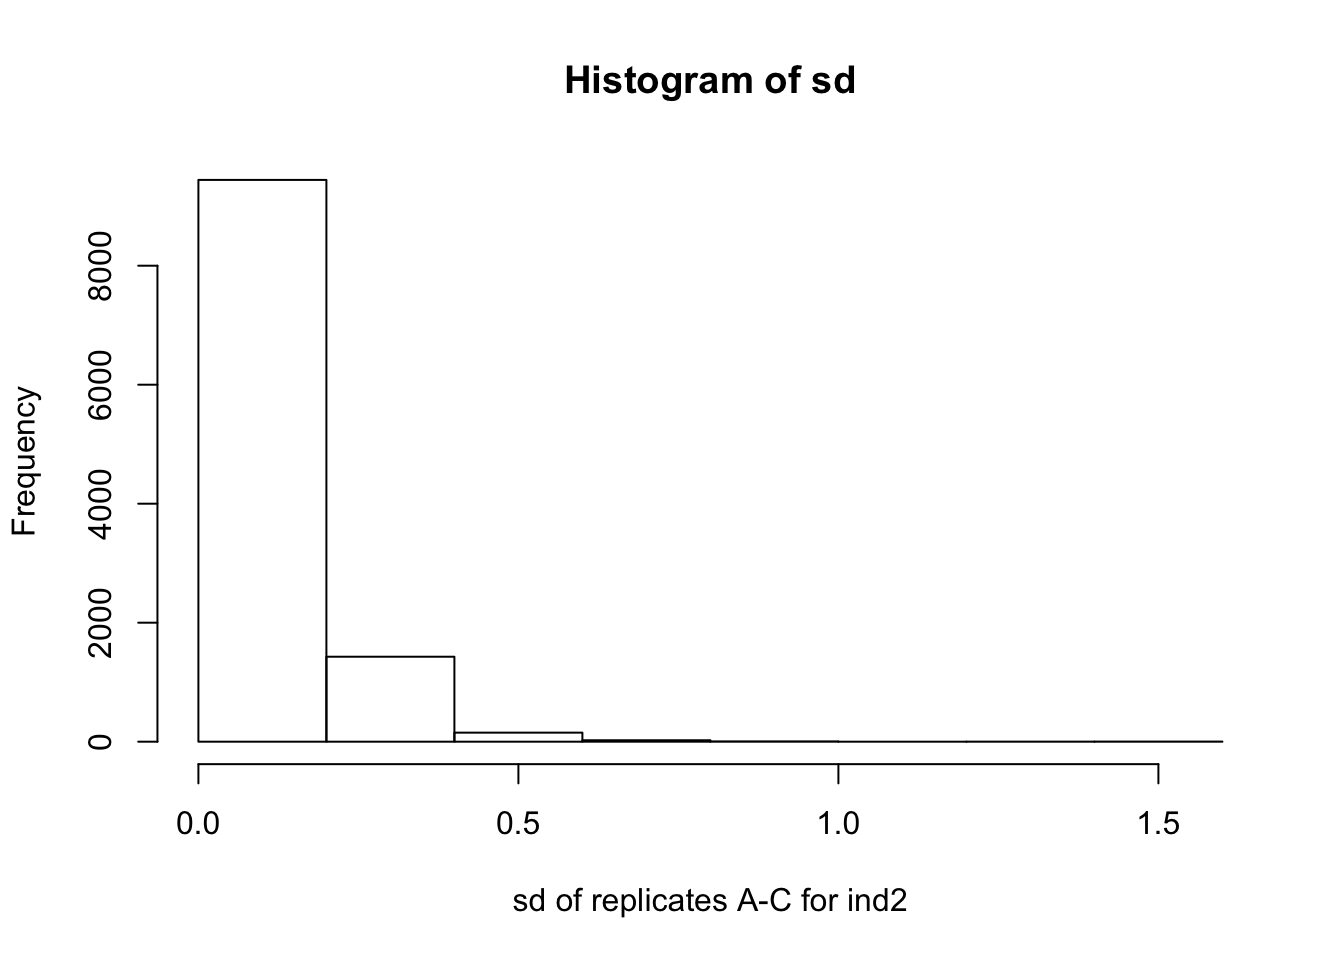
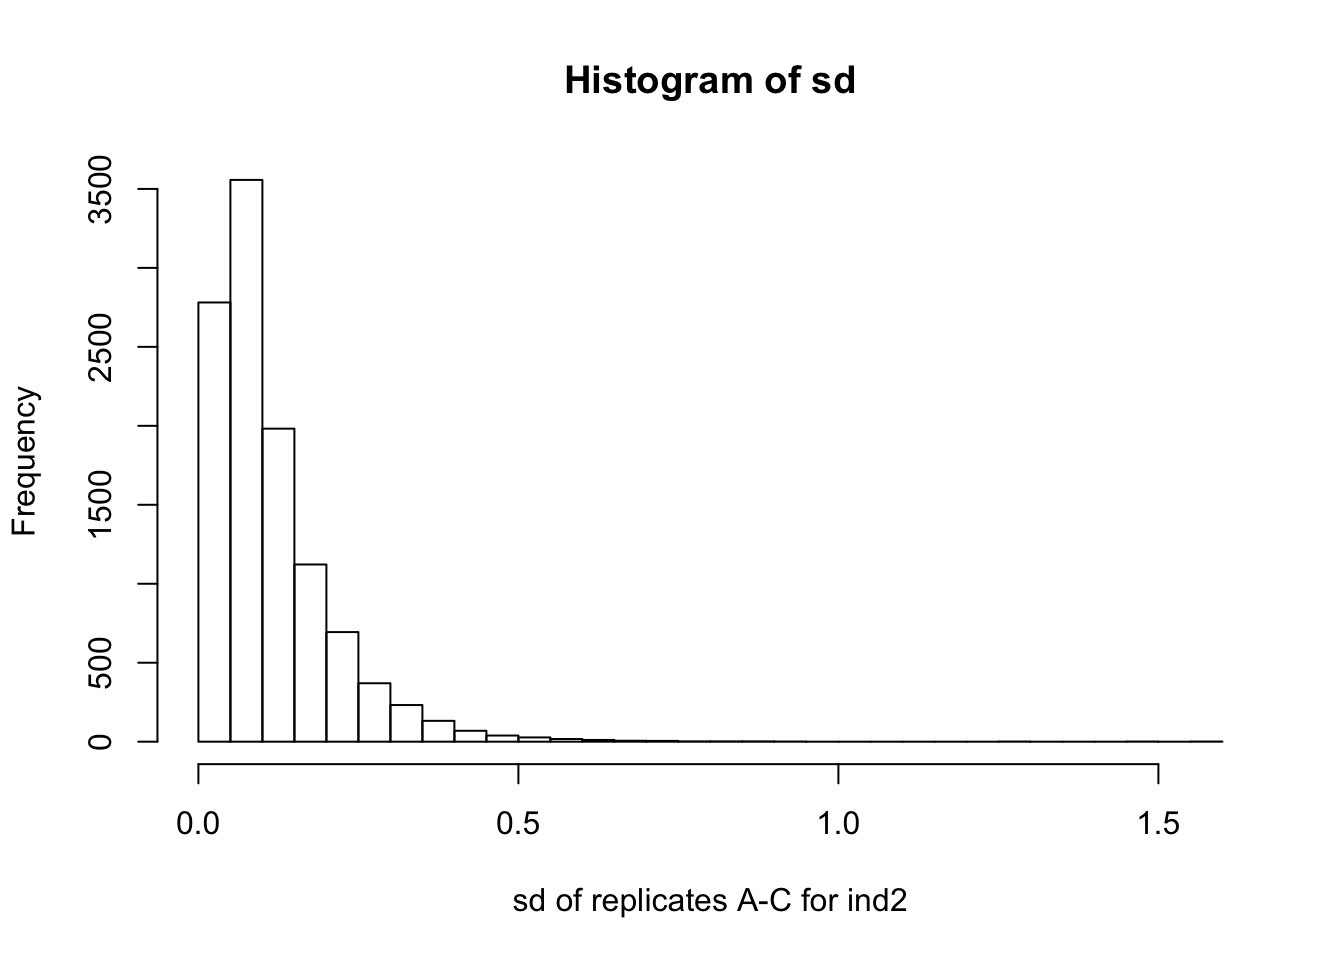
fix stem.html

diff --git a/docs/stem.html b/docs/stem.html
@@ -327,8 +327,7 @@ div.section {
 <strong>workflowr checks:</strong> <small>(Click a bullet for more information)</small>
 <ul>
 <li>
-<p><details> <summary> <strong style="color:blue;">✔</strong> <strong>R Markdown file:</strong> up-to-date </summary></p>
-<p>Great! Since the R Markdown file has been committed to the Git repository, you know the exact version of the code that produced these results.</p>
+<p><details> <summary> <strong style="color:red;">✖</strong> <strong>R Markdown file:</strong> uncommitted changes </summary> The R Markdown file has unstaged changes. To know which version of the R Markdown file created these results, you’ll want to first commit it to the Git repo. If you’re still working on the analysis, you can ignore this warning. When you’re finished, you can run <code>wflow_publish</code> to commit the R Markdown file and build the HTML.</p>
 </details>
 </li>
 <li>
@@ -347,12 +346,15 @@ div.section {
 </details>
 </li>
 <li>
-<p><details> <summary> <strong style="color:blue;">✔</strong> <strong>Repository version:</strong> <a href="https://github.com/mengyin/general_ash/tree/92644611d4a57984a9dd47c97ce9d1ae75d04440" target="_blank">9264461</a> </summary></p>
+<p><details> <summary> <strong style="color:blue;">✔</strong> <strong>Repository version:</strong> <a href="https://github.com/mengyin/general_ash/tree/7836ca3351a4995f184bd7b25a0f64537658dc29" target="_blank">7836ca3</a> </summary></p>
 Great! You are using Git for version control. Tracking code development and connecting the code version to the results is critical for reproducibility. The version displayed above was the version of the Git repository at the time these results were generated. <br><br> Note that you need to be careful to ensure that all relevant files for the analysis have been committed to Git prior to generating the results (you can use <code>wflow_publish</code> or <code>wflow_git_commit</code>). workflowr only checks the R Markdown file, but you know if there are other scripts or data files that it depends on. Below is the status of the Git repository when the results were generated:
 <pre><code>
 Ignored files:
+    Ignored:    analysis/._index.Rmd
     Ignored:    analysis/stem_cache/
-    Ignored:    docs/figure/
+
+Unstaged changes:
+    Modified:   analysis/stem.Rmd
 
 </code></pre>
 Note that any generated files, e.g. HTML, png, CSS, etc., are not included in this status report because it is ok for generated content to have uncommitted changes. </details>
@@ -381,6 +383,23 @@ Message
 </tr>
 </thead>
 <tbody>
+<tr>
+<td style="text-align:left;">
+html
+</td>
+<td style="text-align:left;">
+<a href="https://cdn.rawgit.com/mengyin/general_ash/7836ca3351a4995f184bd7b25a0f64537658dc29/docs/stem.html" target="_blank">7836ca3</a>
+</td>
+<td style="text-align:left;">
+mengyin
+</td>
+<td style="text-align:left;">
+2018-08-07
+</td>
+<td style="text-align:left;">
+Build site.
+</td>
+</tr>
 <tr>
 <td style="text-align:left;">
 Rmd
@@ -542,15 +561,42 @@ ENSG00000198825        7.115315      7.044821    7.757269      7.045194
                 Ind1.L.iPSC.B Ind4.L.iPSC.B Ind3.L.iPSC.C Ind4.F.iPSC
 ENSG00000198825      6.969298      6.974893      7.049418    7.896776</code></pre>
 <p>For this gene, individual 2 L-iPSC replicate B’s gene expression level is much higher (&gt;1.4) than that of replicates A and C. Compared to the typical gene expression variation within L-iPSC replicates, this seems somewhat suspicious…?</p>
-<pre class="r"><code>hist(apply(geneexp[,c(&quot;Ind2.L.iPSC.A&quot;,&quot;Ind2.L.iPSC.B&quot;,&quot;Ind2.L.iPSC.C&quot;)],1,sd), 10,
+<pre class="r"><code>hist(apply(geneexp[,c(&quot;Ind2.L.iPSC.A&quot;,&quot;Ind2.L.iPSC.B&quot;,&quot;Ind2.L.iPSC.C&quot;)],1,sd), 30,
      xlab=&quot;sd of replicates A-C for ind2&quot;,
      main=&quot;Histogram of sd&quot;)</code></pre>
 <p><img src="figure/stem.Rmd/unnamed-chunk-4-1.png" width="672" style="display: block; margin: auto;" /></p>
+<details> <summary><em>Expand here to see past versions of unnamed-chunk-4-1.png:</em></summary>
+<table style="border-collapse:separate; border-spacing:5px;">
+<thead>
+<tr>
+<th style="text-align:left;">
+Version
+</th>
+<th style="text-align:left;">
+Author
+</th>
+<th style="text-align:left;">
+Date
+</th>
+</tr>
+</thead>
+<tbody>
+<tr>
+<td style="text-align:left;">
+<a href="https://github.com/mengyin/general_ash/blob/7836ca3351a4995f184bd7b25a0f64537658dc29/docs/figure/stem.Rmd/unnamed-chunk-4-1.png" target="_blank">7836ca3</a>
+</td>
+<td style="text-align:left;">
+mengyin
+</td>
+<td style="text-align:left;">
+2018-08-07
+</td>
+</tr>
+</tbody>
+</table>
+<p></details></p>
 </div>
 <div id="session-information" class="section level2">
-<h2>Session Information</h2>
-</div>
-<div id="session-information-1" class="section level2">
 <h2>Session information</h2>
 <pre class="r"><code>sessionInfo()</code></pre>
 <pre><code>R version 3.5.0 (2018-04-23)
